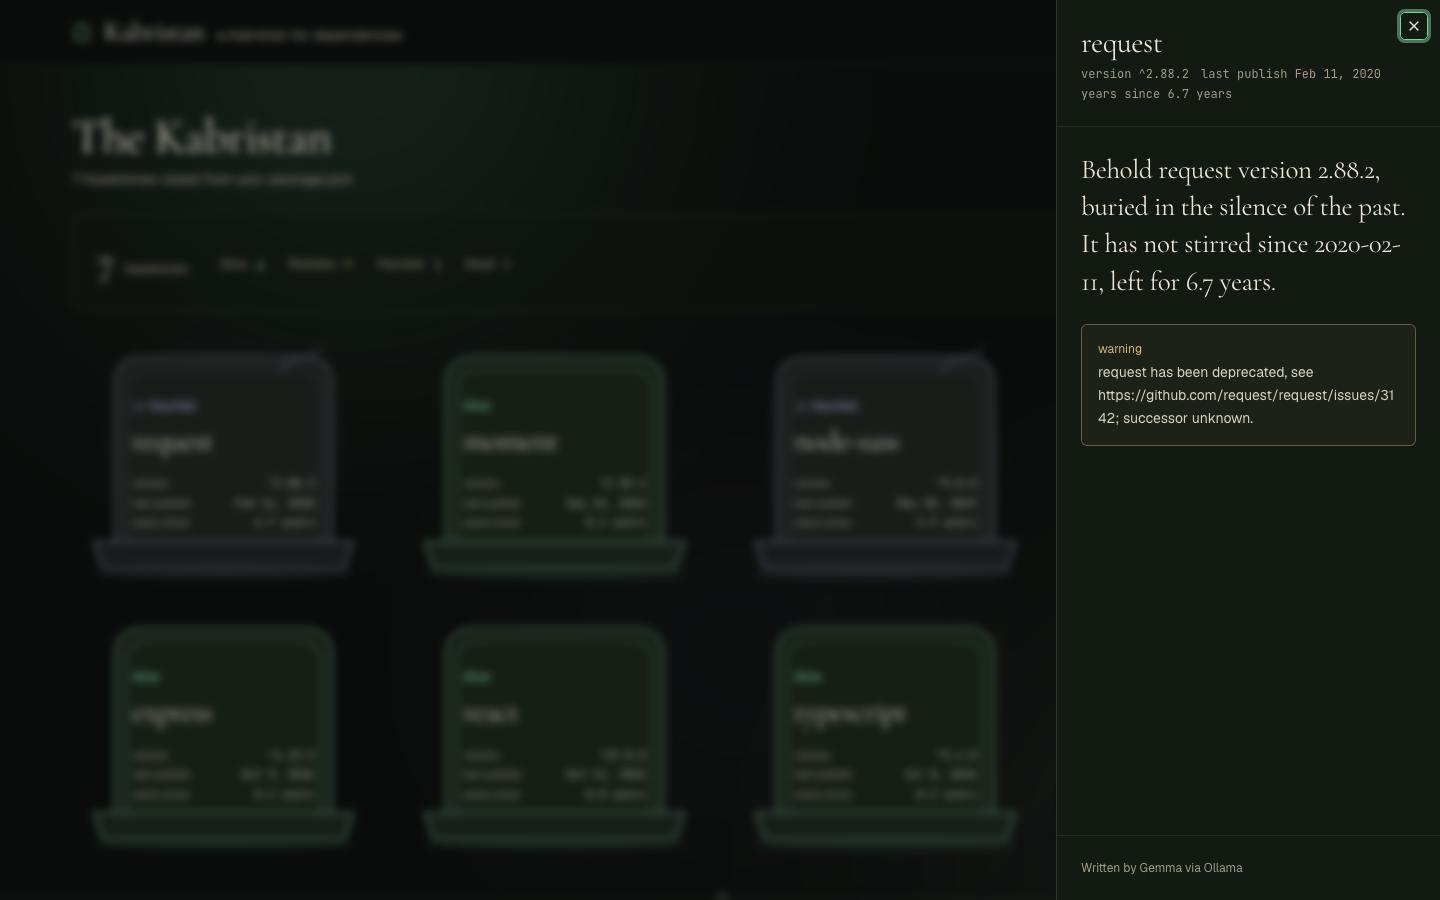
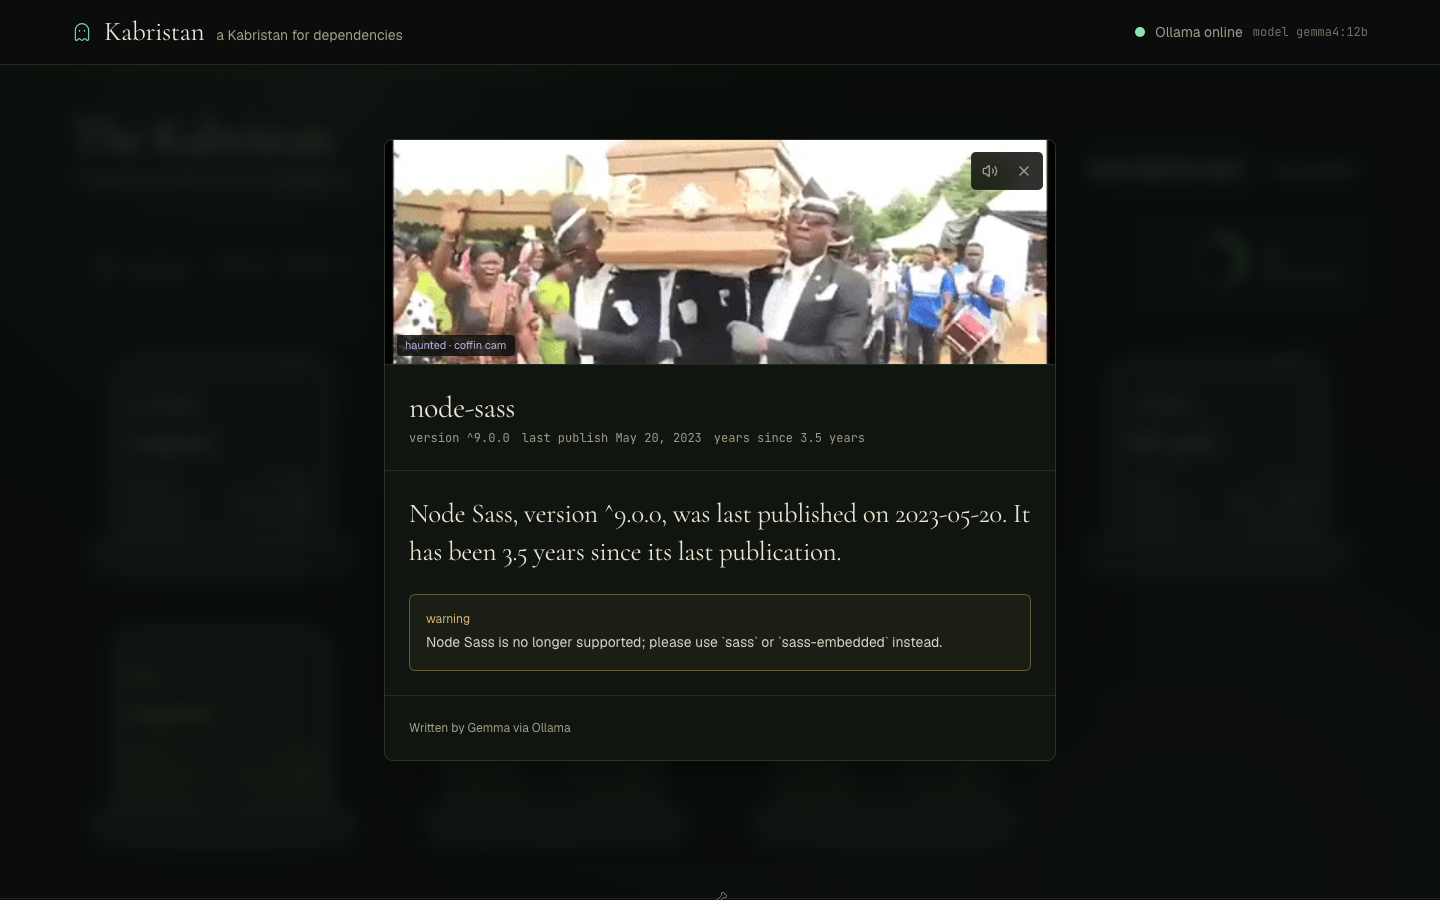
fix(ui): center the epitaph dialog and fold in the coffin cam

diff --git a/src/components/epitaph-panel.tsx b/src/components/epitaph-panel.tsx
@@ -2,16 +2,11 @@
 
 import { useEffect, useRef, useState } from "react";
 
+import { Volume2, VolumeX, X } from "lucide-react";
+
 import { Button } from "@/components/ui/button";
-import {
-  Sheet,
-  SheetContent,
-  SheetDescription,
-  SheetFooter,
-  SheetHeader,
-  SheetTitle,
-} from "@/components/ui/sheet";
 import { Skeleton } from "@/components/ui/skeleton";
+import { startCoffinSong, type CoffinSong } from "@/lib/coffin-song";
 import type { Epitaph, ScannedPackage } from "@/lib/types";
 
 type PanelState =
@@ -215,16 +210,19 @@ function EpitaphContent({
 
   return (
     <>
-      <SheetHeader className="gap-1 border-b border-border/70 p-5 pr-12 sm:p-6 sm:pr-14">
-        <SheetTitle className="display min-w-0 break-words text-3xl leading-tight">
+      <header className="border-b border-border/70 p-5 pr-14 sm:p-6 sm:pr-16">
+        <h2
+          id="epitaph-title"
+          className="display min-w-0 break-words text-3xl leading-tight"
+        >
           {name}
-        </SheetTitle>
-        <SheetDescription className="carved flex flex-wrap gap-x-3 gap-y-1 text-xs text-muted-foreground">
+        </h2>
+        <p className="carved mt-1 flex flex-wrap gap-x-3 gap-y-1 text-xs text-muted-foreground">
           <span>version {version}</span>
           <span>last publish {formatPublished(lastPublish)}</span>
           <span>years since {formatYears(yearsSince)}</span>
-        </SheetDescription>
-      </SheetHeader>
+        </p>
+      </header>
 
       <div className="flex-1 overflow-y-auto p-5 sm:p-6">
         {state.status === "loading" ? <EpitaphSkeleton /> : null}
@@ -284,13 +282,13 @@ function EpitaphContent({
       </div>
 
       {state.status === "ready" ? (
-        <SheetFooter className="border-t border-border/70 p-5 sm:p-6">
+        <footer className="border-t border-border/70 p-5 sm:p-6">
           <p className="text-xs text-muted-foreground">
             {state.epitaph.source === "ollama"
               ? "Written by Gemma via Ollama"
               : "Template epitaph"}
           </p>
-        </SheetFooter>
+        </footer>
       ) : null}
     </>
   );
@@ -300,8 +298,8 @@ export function EpitaphPanel({ pkg, onClose, onEpitaph }: EpitaphPanelProps) {
   const cache = useRef(new Map<string, Epitaph>());
   const [lastPkg, setLastPkg] = useState<ScannedPackage | null>(pkg);
 
-  // Adjust during render so a new selection never flashes the previous
-  // epitaph, and keep the last package while the sheet animates closed.
+  // Keep the last package while the dialog closes, so the content does not
+  // flash empty during the exit.
   const pkgKey = pkg ? `${pkg.name}@${pkg.version}` : null;
   const lastKey = lastPkg ? `${lastPkg.name}@${lastPkg.version}` : null;
   if (pkg && pkgKey !== lastKey) {
@@ -309,25 +307,135 @@ export function EpitaphPanel({ pkg, onClose, onEpitaph }: EpitaphPanelProps) {
   }
 
   const shownPkg = pkg ?? lastPkg;
+  const open = pkg !== null;
+  const haunted =
+    shownPkg?.status === "haunted" || shownPkg?.status === "dead";
+  const [muted, setMuted] = useState(false);
+  const songRef = useRef<CoffinSong | null>(null);
+  const audioRef = useRef<HTMLAudioElement | null>(null);
+  const songKey = shownPkg ? `${shownPkg.name}@${shownPkg.version}` : null;
+
+  useEffect(() => {
+    if (!open || !haunted) return;
+
+    let cancelled = false;
+    setMuted(false);
+
+    // A licensed track dropped at /audio/coffin.mp3 (gitignored) wins;
+    // otherwise the original synth loop plays.
+    const audio = new Audio("/audio/coffin.mp3");
+    audio.loop = true;
+    audio.volume = 0.35;
+    audioRef.current = audio;
+    audio
+      .play()
+      .then(() => {
+        if (cancelled) audio.pause();
+      })
+      .catch(() => {
+        if (cancelled) return;
+        const song = startCoffinSong();
+        songRef.current = song;
+      });
+
+    return () => {
+      cancelled = true;
+      audio.pause();
+      audioRef.current = null;
+      songRef.current?.stop();
+      songRef.current = null;
+    };
+  }, [open, haunted, songKey]);
+
+  function toggleSound() {
+    setMuted((current) => {
+      const next = !current;
+      if (audioRef.current) audioRef.current.muted = next;
+      songRef.current?.setMuted(next);
+      return next;
+    });
+  }
+
+  useEffect(() => {
+    if (!open) return;
+
+    function onKey(event: KeyboardEvent) {
+      if (event.key === "Escape") onClose();
+    }
+
+    const previous = document.body.style.overflow;
+    document.body.style.overflow = "hidden";
+    document.addEventListener("keydown", onKey);
+
+    return () => {
+      document.body.style.overflow = previous;
+      document.removeEventListener("keydown", onKey);
+    };
+  }, [open, onClose]);
+
+  if (!open || !shownPkg) return null;
 
   return (
-    <Sheet
-      open={pkg !== null}
-      onOpenChange={(open) => {
-        if (!open) onClose();
-      }}
+    <div
+      className="fixed inset-0 z-[60] grid place-items-center bg-background/75 p-4 backdrop-blur-sm sm:p-6"
+      role="presentation"
+      onClick={onClose}
     >
-      <SheetContent side="right" className="w-full gap-0 sm:max-w-md">
-        {shownPkg ? (
-          <EpitaphContent
-            key={`${shownPkg.name}@${shownPkg.version}`}
-            pkg={shownPkg}
-            active={pkg !== null}
-            cache={cache}
-            onEpitaph={onEpitaph}
-          />
+      <div
+        role="dialog"
+        aria-modal="true"
+        aria-labelledby="epitaph-title"
+        onClick={(event) => event.stopPropagation()}
+        className="relative flex max-h-[88vh] w-[min(94vw,42rem)] flex-col overflow-hidden rounded-xl border border-border bg-card shadow-[var(--shadow-slab)]"
+      >
+        <div className="absolute right-3 top-3 z-10 flex items-center gap-0.5 rounded-md border border-border/70 bg-background/85 p-0.5 backdrop-blur-sm">
+          {haunted ? (
+            <button
+              type="button"
+              onClick={toggleSound}
+              aria-pressed={!muted}
+              aria-label={muted ? "Unmute the coffin cam" : "Mute the coffin cam"}
+              className="rounded p-2 text-muted-foreground transition-colors hover:text-foreground focus-visible:outline-none"
+            >
+              {muted ? (
+                <VolumeX className="size-4" aria-hidden />
+              ) : (
+                <Volume2 className="size-4" aria-hidden />
+              )}
+            </button>
+          ) : null}
+          <button
+            type="button"
+            onClick={onClose}
+            aria-label="Close the epitaph"
+            autoFocus
+            className="rounded p-2 text-muted-foreground transition-colors hover:text-foreground focus-visible:outline-none"
+          >
+            <X className="size-4" aria-hidden />
+          </button>
+        </div>
+
+        {haunted ? (
+          <div className="relative border-b border-border/70">
+            <img
+              src="/memes/coffin-dance.webp"
+              alt="The coffin dance meme, played for a haunted package"
+              className="max-h-56 w-full object-cover"
+            />
+            <p className="absolute bottom-2 left-3 rounded bg-background/80 px-2 py-0.5 text-[11px] text-haunted">
+              haunted · coffin cam
+            </p>
+          </div>
         ) : null}
-      </SheetContent>
-    </Sheet>
+
+        <EpitaphContent
+          key={`${shownPkg.name}@${shownPkg.version}`}
+          pkg={shownPkg}
+          active={open}
+          cache={cache}
+          onEpitaph={onEpitaph}
+        />
+      </div>
+    </div>
   );
 }

diff --git a/src/app/page.tsx b/src/app/page.tsx
@@ -3,7 +3,6 @@
 import { useCallback, useEffect, useRef, useState } from "react";
 import { Ghost } from "lucide-react";
 
-import { CoffinCam } from "@/components/coffin-cam";
 import { EpitaphPanel } from "@/components/epitaph-panel";
 import { LoadingKabristan } from "@/components/loading-kabristan";
 import { SummaryBar } from "@/components/summary-bar";
@@ -23,8 +22,6 @@ export default function Home() {
   const [error, setError] = useState<string | null>(null);
   const [selected, setSelected] = useState<ScannedPackage | null>(null);
   const [epitaphs, setEpitaphs] = useState<Record<string, Epitaph>>({});
-  const [coffinTrigger, setCoffinTrigger] = useState(0);
-  const [coffinPkg, setCoffinPkg] = useState<ScannedPackage | null>(null);
   const resultsRef = useRef<HTMLDivElement | null>(null);
 
   const loading = phase === "loading";
@@ -78,21 +75,7 @@ export default function Home() {
   }, []);
 
   const selectPackage = useCallback((pkg: ScannedPackage) => {
-    if (pkg.status === "haunted" || pkg.status === "dead") {
-      setSelected(null);
-      setCoffinPkg(pkg);
-      setCoffinTrigger((value) => value + 1);
-      return;
-    }
     setSelected(pkg);
-  }, []);
-
-  const closeCoffinCam = useCallback(() => {
-    setCoffinTrigger(0);
-    setCoffinPkg((held) => {
-      if (held) setSelected(held);
-      return null;
-    });
   }, []);
 
   const recordEpitaph = useCallback((epitaph: Epitaph) => {
@@ -241,8 +224,6 @@ export default function Home() {
         onClose={() => setSelected(null)}
         onEpitaph={recordEpitaph}
       />
-
-      <CoffinCam trigger={coffinTrigger} onClose={closeCoffinCam} />
     </div>
   );
 }

diff --git a/docs/hacktoberfest-week4-post.md b/docs/hacktoberfest-week4-post.md
@@ -152,7 +152,7 @@ The interface is built with the open-source **Hallmark** design skill, vendored 
 
 The stones are inline SVG so they can decay with the data: cracks and moss appear only on dead packages, a slow ghost glow only on haunted ones, and hover raises a candlelight wash at the base of the stone. Everything collapses under `prefers-reduced-motion`.
 
-Clicking a haunted stone opens the **coffin cam** in the center of the screen with a synthesized minor-key loop, then hands off to the epitaph panel. The loop is original Web Audio, not a sample of the original meme track, so the repository stays clean of licensed audio.
+Clicking a haunted stone opens one centered dialog: the coffin cam GIF sits above the epitaph, and a minor-key loop starts immediately. The loop is original Web Audio, not a sample of the original meme track, so the repository stays clean of licensed audio. If you own a licensed copy of a track, drop it at `public/audio/coffin.mp3` and the dialog will use that instead.
 
 I ran Hallmark's `sloplint` render sweep from 320 to 1920 pixels. It reports **0 FAIL, 0 WARN**, with two documented dismissals, the sheet scrim and the wrapping tombstone metadata.
 

diff --git a/README.md b/README.md
@@ -100,7 +100,8 @@ Deprecation outranks age: `request` is 6.7 years old and still **haunted**, not 
 - Every package is a `<button>` with an inline SVG slab, base plinth and carved meta: name, version, last publish, years since.
 - `dead` stones grow cracks and moss; `haunted` stones pulse a slow ghost glow; hover raises a candle glow instead of a generic lift.
 - Portrait on phones, four columns on desktop, and every animation collapses under `prefers-reduced-motion`.
-- Haunted and dead stones reveal the coffin cam on hover. Clicking one opens it centered, starts a short original synth loop, and hands off to the epitaph panel when it closes.
+- Haunted and dead stones reveal the coffin cam on hover. Clicking one opens a centered dialog with the GIF above the epitaph and starts the coffin cam audio.
+- Audio: an original Web Audio loop ships with the app. To use a licensed track instead, drop it at `public/audio/coffin.mp3` (gitignored); the dialog plays that file when present and falls back to the synth.
 
 ### 4. Epitaphs Written Locally
 - Clicking a stone sends **only five facts**: name, version, last publish, years since, deprecation message.
